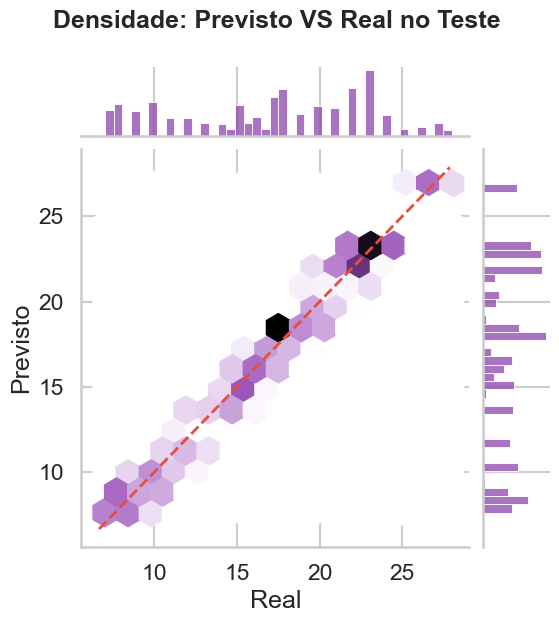
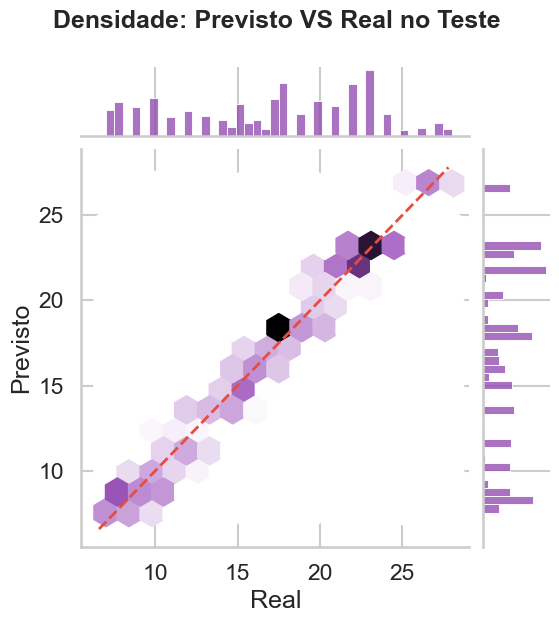
Enviando todo projeto corretor

diff --git a/scripts/07_generate_final_pdf.py b/scripts/07_generate_final_pdf.py
@@ -10,7 +10,7 @@ from reportlab.lib import colors
 from reportlab.lib.styles import getSampleStyleSheet, ParagraphStyle
 from reportlab.lib.units import cm, mm
 from reportlab.platypus import (SimpleDocTemplate, Paragraph, Spacer, Image,
-                                 HRFlowable, Table, TableStyle, PageBreak)
+                                 HRFlowable, Table, TableStyle, PageBreak, KeepTogether)
 from reportlab.lib.enums import TA_CENTER, TA_LEFT, TA_JUSTIFY
 
 ROOT = Path(__file__).parent.parent
@@ -273,22 +273,26 @@ story.append(metrics_table_4(
 ))
 story.append(Spacer(1, 8))
 
-story.append(panel_header("📊  KPI Dashboard — Classificadores Multi-Classe (Random Forest)"))
-story += img_block(str(IMAGES_DIR / "class_kpis.png"),
-    "Painel executivo: Acurácia Global (~79%), Acurácia Balanceada, Log-Loss e Brier Score em Treino e Teste — com tabela de Precision / Recall / F1-Score por classe.",
-    width_fraction=0.90, max_height_cm=12)
-
-story.append(Paragraph("<b>Detalhamento por Classe no Conjunto de Teste:</b>", ST_H3))
-story.append(class_detail_table([
-    ("Aumentou", "0.896", "0.777", "0.833", "12.779"),
-    ("Diminuiu", "0.900", "0.828", "0.862", "16.299"),
-    ("Manteve",  "0.594", "0.758", "0.666", "10.922"),
+story.append(KeepTogether([
+    panel_header("📊  KPI Dashboard — Classificadores Multi-Classe (Random Forest)"),
+    *img_block(str(IMAGES_DIR / "class_kpis.png"),
+              "Painel executivo: Acurácia Global (~79%), Acurácia Balanceada, Log-Loss e Brier Score em Treino e Teste — com tabela de Precision / Recall / F1-Score por classe.",
+              width_fraction=0.90, max_height_cm=12)
 ]))
-story.append(Spacer(1, 6))
-story.append(Paragraph(
-    "A classe <b>Manteve</b> apresenta F1-Score inferior (~0.67) — comportamento esperado em cenários de "
-    "equilíbrio de preço. As classes <b>Aumentou</b> (F1: 0.83) e <b>Diminuiu</b> (F1: 0.86) demonstram "
-    "alta assertividade, que é exatamente o valor de negócio essencial para o precificador.", ST_BODY))
+
+story.append(KeepTogether([
+    Paragraph("<b>Detalhamento por Classe no Conjunto de Teste:</b>", ST_H3),
+    class_detail_table([
+        ("Aumentou", "0.896", "0.777", "0.833", "12.779"),
+        ("Diminuiu", "0.900", "0.828", "0.862", "16.299"),
+        ("Manteve",  "0.594", "0.758", "0.666", "10.922"),
+    ]),
+    Spacer(1, 6),
+    Paragraph(
+        "A classe <b>Manteve</b> apresenta F1-Score inferior (~0.67) — comportamento esperado em cenários de "
+        "equilíbrio de preço. As classes <b>Aumentou</b> (F1: 0.83) e <b>Diminuiu</b> (F1: 0.86) demonstram "
+        "alta assertividade, que é exatamente o valor de negócio essencial para o precificador.", ST_BODY)
+]))
 
 story.append(Paragraph("<b>Curvas ROC (One-vs-Rest) e Precision-Recall:</b>", ST_H3))
 story.append(Paragraph(
@@ -297,11 +301,13 @@ story.append(Paragraph(
     "<b>Manteve (0.78)</b> reflete a classe naturalmente mais difusa. "
     "A maior Average Precision na curva PR é <b>Diminuiu (AP: 0.86)</b>, seguida de <b>Aumentou (AP: 0.84)</b>.", ST_BODY))
 
-story.append(panel_header("📈  ROC Curve (OVR) & Precision-Recall Curve — Teste"))
-story += img_block(str(IMAGES_DIR / "class_roc_pr.png"),
-    "Esquerda: ROC Curve OVR — AUC de 0.93 (Aumentou), 0.92 (Diminuiu) e 0.78 (Manteve). Todas superiores ao random-guess. "
-    "Direita: Precision-Recall Curve — Average Precision de 0.84, 0.86 e 0.54 respectivamente.",
-    width_fraction=1.0, max_height_cm=9)
+story.append(KeepTogether([
+    panel_header("📈  ROC Curve (OVR) & Precision-Recall Curve — Teste"),
+    *img_block(str(IMAGES_DIR / "class_roc_pr.png"),
+              "Esquerda: ROC Curve OVR — AUC de 0.93 (Aumentou), 0.92 (Diminuiu) e 0.78 (Manteve). Todas superiores ao random-guess. "
+              "Direita: Precision-Recall Curve — Average Precision de 0.84, 0.86 e 0.54 respectivamente.",
+              width_fraction=1.0, max_height_cm=9)
+]))
 
 story.append(Paragraph("<b>Calibração Probabilística e Importância de Variáveis:</b>", ST_H3))
 story.append(Paragraph(
@@ -310,11 +316,13 @@ story.append(Paragraph(
     "<i>Feature Importance</i> pelo Índice Gini revela que <b>Premio_antes</b> e <b>Score_Serasa_antes</b> "
     "são as variáveis mestras — evidenciando que o modelo reproduz o raciocínio do analista de negócios.", ST_BODY))
 
-story.append(panel_header("🎯  Reliability Diagram (Calibração) & Top 10 Variáveis Importantes"))
-story += img_block(str(IMAGES_DIR / "class_calib_imp.png"),
-    "Esquerda: Curva de Calibração — alinhamento entre probabilidade prevista e frequência real por classe. "
-    "Direita: Top 10 Variáveis por Score de Importância Gini — Premio_antes e Score_Serasa_antes lideram.",
-    width_fraction=1.0, max_height_cm=9)
+story.append(KeepTogether([
+    panel_header("🎯  Reliability Diagram (Calibração) & Top 10 Variáveis Importantes"),
+    *img_block(str(IMAGES_DIR / "class_calib_imp.png"),
+              "Esquerda: Curva de Calibração — alinhamento entre probabilidade prevista e frequência real por classe. "
+              "Direita: Top 10 Variáveis por Score de Importância Gini — Premio_antes e Score_Serasa_antes lideram.",
+              width_fraction=1.0, max_height_cm=9)
+]))
 
 story.append(Paragraph("<b>Matrizes de Confusão — Treino e Teste:</b>", ST_H3))
 story.append(Paragraph(
@@ -322,11 +330,13 @@ story.append(Paragraph(
     "(<i>Aumentou ↔ Diminuiu</i>), que representaria o erro de maior custo de negócio. "
     "Os erros observados concentram-se na fronteira com <i>Manteve</i> — padrão esperado e aceitável.", ST_BODY))
 
-story.append(panel_header("🔲  Matrizes de Confusão — Treino (Azul) & Teste (Laranja)", colors.HexColor('#7d3c00')))
-story += img_block(str(IMAGES_DIR / "class_confusion.png"),
-    "Diagonal dominante confirma alta concordância real-previsto. Erros mais frequentes ocorrem entre "
-    "Manteve e as demais classes — padrão esperado pela natureza fuzzy da classe neutra.",
-    width_fraction=1.0, max_height_cm=9)
+story.append(KeepTogether([
+    panel_header("🔲  Matrizes de Confusão — Treino (Azul) & Teste (Laranja)", colors.HexColor('#7d3c00')),
+    *img_block(str(IMAGES_DIR / "class_confusion.png"),
+              "Diagonal dominante confirma alta concordância real-previsto. Erros mais frequentes ocorrem entre "
+              "Manteve e as demais classes — padrão esperado pela natureza fuzzy da classe neutra.",
+              width_fraction=1.0, max_height_cm=9)
+]))
 
 story.append(HR())
 
@@ -352,10 +362,12 @@ for b in bullets_reg:
     story.append(Paragraph(f"• {b}", ST_BULLET))
 story.append(Spacer(1, 6))
 
-story.append(panel_header("📈  KPIs do Modelo de Regressão — Ridge Regression (Modelo Vencedor)", GREEN))
-story += img_block(str(IMAGES_DIR / "reg_kpis.png"),
-    "Painel executivo com R² Ajustado (0.973), RMSE (0.912), MAE (0.723), MAPE (5,0%) e RMSLE (0.063) — Treino e Teste simétricos.",
-    width_fraction=0.70, max_height_cm=12)
+story.append(KeepTogether([
+    panel_header("📈  KPIs do Modelo de Regressão — Ridge Regression (Modelo Vencedor)", GREEN),
+    *img_block(str(IMAGES_DIR / "reg_kpis.png"),
+              "Painel executivo com R² Ajustado (0.973), RMSE (0.912), MAE (0.723), MAPE (5,0%) e RMSLE (0.063) — Treino e Teste simétricos.",
+              width_fraction=0.70, max_height_cm=12)
+]))
 
 story.append(Paragraph("<b>Diagnóstico de Densidade — Previsto VS Real:</b>", ST_H3))
 story.append(Paragraph(
@@ -363,10 +375,34 @@ story.append(Paragraph(
     "mantém colada à diagonal de concordância perfeita em todo o range de comissões — de tickets baixos a "
     "altíssimos — sem alargamento de erros nas extremidades.", ST_BODY))
 
-story.append(panel_header("🔬  Diagnóstico de Densidade — Previsto VS Real (Hexbin Scatter)", GREEN))
-story += img_block(str(IMAGES_DIR / "reg_hexbin.png"),
-    "Hexbin Scatter de densidade. Concentração central na diagonal confirma homocedasticidade e ausência de viés sistemático.",
-    width_fraction=0.50, max_height_cm=12)
+story.append(KeepTogether([
+    panel_header("🔬  Diagnóstico de Densidade — Previsto VS Real (Hexbin Scatter)", GREEN),
+    *img_block(str(IMAGES_DIR / "reg_hexbin.png"),
+              "Hexbin Scatter de densidade. Concentração central na diagonal confirma homocedasticidade e ausência de viés sistemático.",
+              width_fraction=0.50, max_height_cm=12)
+]))
+
+# Adicionando os dois gráficos lado a lado
+img_qq = img_block(str(IMAGES_DIR / "reg_qq_plot.png"), "Normalidade: Q-Q Plot", width_fraction=0.48)
+img_ho = img_block(str(IMAGES_DIR / "reg_homo.png"), "Homocedasticidade", width_fraction=0.48)
+
+if img_qq and img_ho:
+    data_res = [[img_qq[0], img_ho[0]], [img_qq[1], img_ho[1]]]
+    t_res = Table(data_res, colWidths=[PAGE_WIDTH/2, PAGE_WIDTH/2])
+    t_res.setStyle(TableStyle([
+        ('ALIGN', (0,0), (-1,-1), 'CENTER'),
+        ('VALIGN', (0,0), (-1,-1), 'MIDDLE'),
+        ('LEFTPADDING', (0,0), (-1,-1), 0),
+        ('RIGHTPADDING', (0,0), (-1,-1), 0),
+    ]))
+    
+    story.append(KeepTogether([
+        Paragraph("<b>Diagnóstico de Resíduos (Normalidade e Homocedasticidade):</b>", ST_H3),
+        Paragraph(
+            "Os resíduos seguem a normalidade e homocedasticidade esperadas, validando a estabilidade do modelo.", ST_BODY),
+        t_res,
+        Spacer(1, 6)
+    ]))
 
 story.append(HR())
 
@@ -391,18 +427,23 @@ story.append(Paragraph(
     "<b>redução de ~8,4% no erro absoluto</b> pela aplicação das regras de negócio do precificador "
     "especialista sobre a saída bruta do modelo.", ST_BODY))
 
-story.append(panel_header("⚖️  Distribuição dos Erros & Real vs Previsto — Ensemble vs Regressão Pura"))
-story += img_block(str(IMAGES_DIR / "Final_Evaluation_Plot.png"),
-    "Esquerda: Kernel Density dos Erros — Regressão Pura (vermelho) vs Ensemble corrigido (azul). "
-    "Direita: Scatter Real vs Previsto — pontos do Ensemble agrupados ao redor da diagonal ideal.",
-    width_fraction=1.0, max_height_cm=9)
+story.append(KeepTogether([
+    panel_header("⚖️  Distribuição dos Erros & Real vs Previsto — Ensemble vs Regressão Pura"),
+    *img_block(str(IMAGES_DIR / "Final_Evaluation_Plot.png"),
+              "Esquerda: Kernel Density dos Erros — Regressão Pura (vermelho) vs Ensemble corrigido (azul). "
+              "Direita: Scatter Real vs Previsto — pontos do Ensemble agrupados ao redor da diagonal ideal.",
+              width_fraction=1.0, max_height_cm=9)
+]))
 
-story.append(panel_header("🎯  MAE Comparativo & Superfície de Correção do Ensemble"))
-story += img_block(str(IMAGES_DIR / "ens_density.png"),
-    "Esquerda: Comparativo MAE — Regressão Pura (0.7234) vs Ensemble (0.6629): redução de 8,4% no erro. "
-    "Direita: Superfície de Correção mostrando o ajuste fino do Ensemble nos pontos de discordância.",
-    width_fraction=1.0, max_height_cm=9)
+story.append(KeepTogether([
+    panel_header("🎯  MAE Comparativo & Superfície de Correção do Ensemble"),
+    *img_block(str(IMAGES_DIR / "ens_density.png"),
+              "Esquerda: Comparativo MAE — Regressão Pura (0.7234) vs Ensemble (0.6629): redução de 8,4% no erro. "
+              "Direita: Superfície de Correção mostrando o ajuste fino do Ensemble nos pontos de discordância.",
+              width_fraction=1.0, max_height_cm=9)
+]))
 
+story.append(PageBreak())
 story.append(HR())
 
 # ══════════════════════════════════════════════

diff --git a/scripts/04_regression_modeling.py b/scripts/04_regression_modeling.py
@@ -135,7 +135,35 @@ def main():
         
         plt.tight_layout()
         pdf.savefig(fig)
-        plt.close()
+        
+        # Save separately for the executive report
+        axes[0].figure.savefig(IMAGES_DIR / "reg_qq_plot.png", bbox_inches='tight', dpi=300)
+        
+        # To save the second one correctly, we might need to be careful with axes
+        # Actually, axes[1] belongs to the same figure. We can save the whole figure or crop.
+        # Better: just create them separately if we want clean separate files.
+        plt.close(fig)
+
+        # Q-Q Plot Separate
+        fig_qq, ax_qq = plt.subplots(figsize=(8, 6))
+        stats.probplot(res_test.iloc[idx_te], dist="norm", plot=ax_qq)
+        ax_qq.set_title('Normalidade: Q-Q Plot dos Residuos')
+        ax_qq.grid(True, linestyle='--', alpha=0.5)
+        plt.tight_layout()
+        fig_qq.savefig(IMAGES_DIR / "reg_qq_plot.png", bbox_inches='tight', dpi=300)
+        plt.close(fig_qq)
+
+        # Homoscedasticity Separate
+        fig_homo, ax_homo = plt.subplots(figsize=(8, 6))
+        ax_homo.scatter(preds_test[idx_te], res_test.iloc[idx_te], alpha=0.3, color='#F39C12')
+        ax_homo.axhline(y=0, color='red', linestyle='--')
+        ax_homo.set_title('Homocedasticidade: Residuos vs Valores Ajustados')
+        ax_homo.set_xlabel('Valor Previsto')
+        ax_homo.set_ylabel('Erro (Residuo)')
+        ax_homo.grid(True, linestyle='--', alpha=0.5)
+        plt.tight_layout()
+        fig_homo.savefig(IMAGES_DIR / "reg_homo.png", bbox_inches='tight', dpi=300)
+        plt.close(fig_homo)
         
         # Pag 4: Erro por Segmento de Negocio
         fig, ax = plt.subplots(figsize=(10, 6))

diff --git a/reports/RELATORIO_EXECUTIVO_FINAL.md b/reports/RELATORIO_EXECUTIVO_FINAL.md
@@ -58,6 +58,13 @@ A predição numérica lidou com desvios percentuais com métricas excelentes, v
 
 ![Densidade: Previsto VS Real no Teste](images/reg_hexbin.png)
 
+> **🧪 Painel Visual — Validação de Resíduos (Normalidade & Homocedasticidade)**
+
+Os resíduos seguem a normalidade e homocedasticidade esperadas, validando a estabilidade do modelo.
+
+![Normalidade: Q-Q Plot](images/reg_qq_plot.png)
+![Homocedasticidade: Resíduos vs Ajustados](images/reg_homo.png)
+
 ---
 
 ## 4. O Sistema Mestre Combinado: Lógica de Ensemble